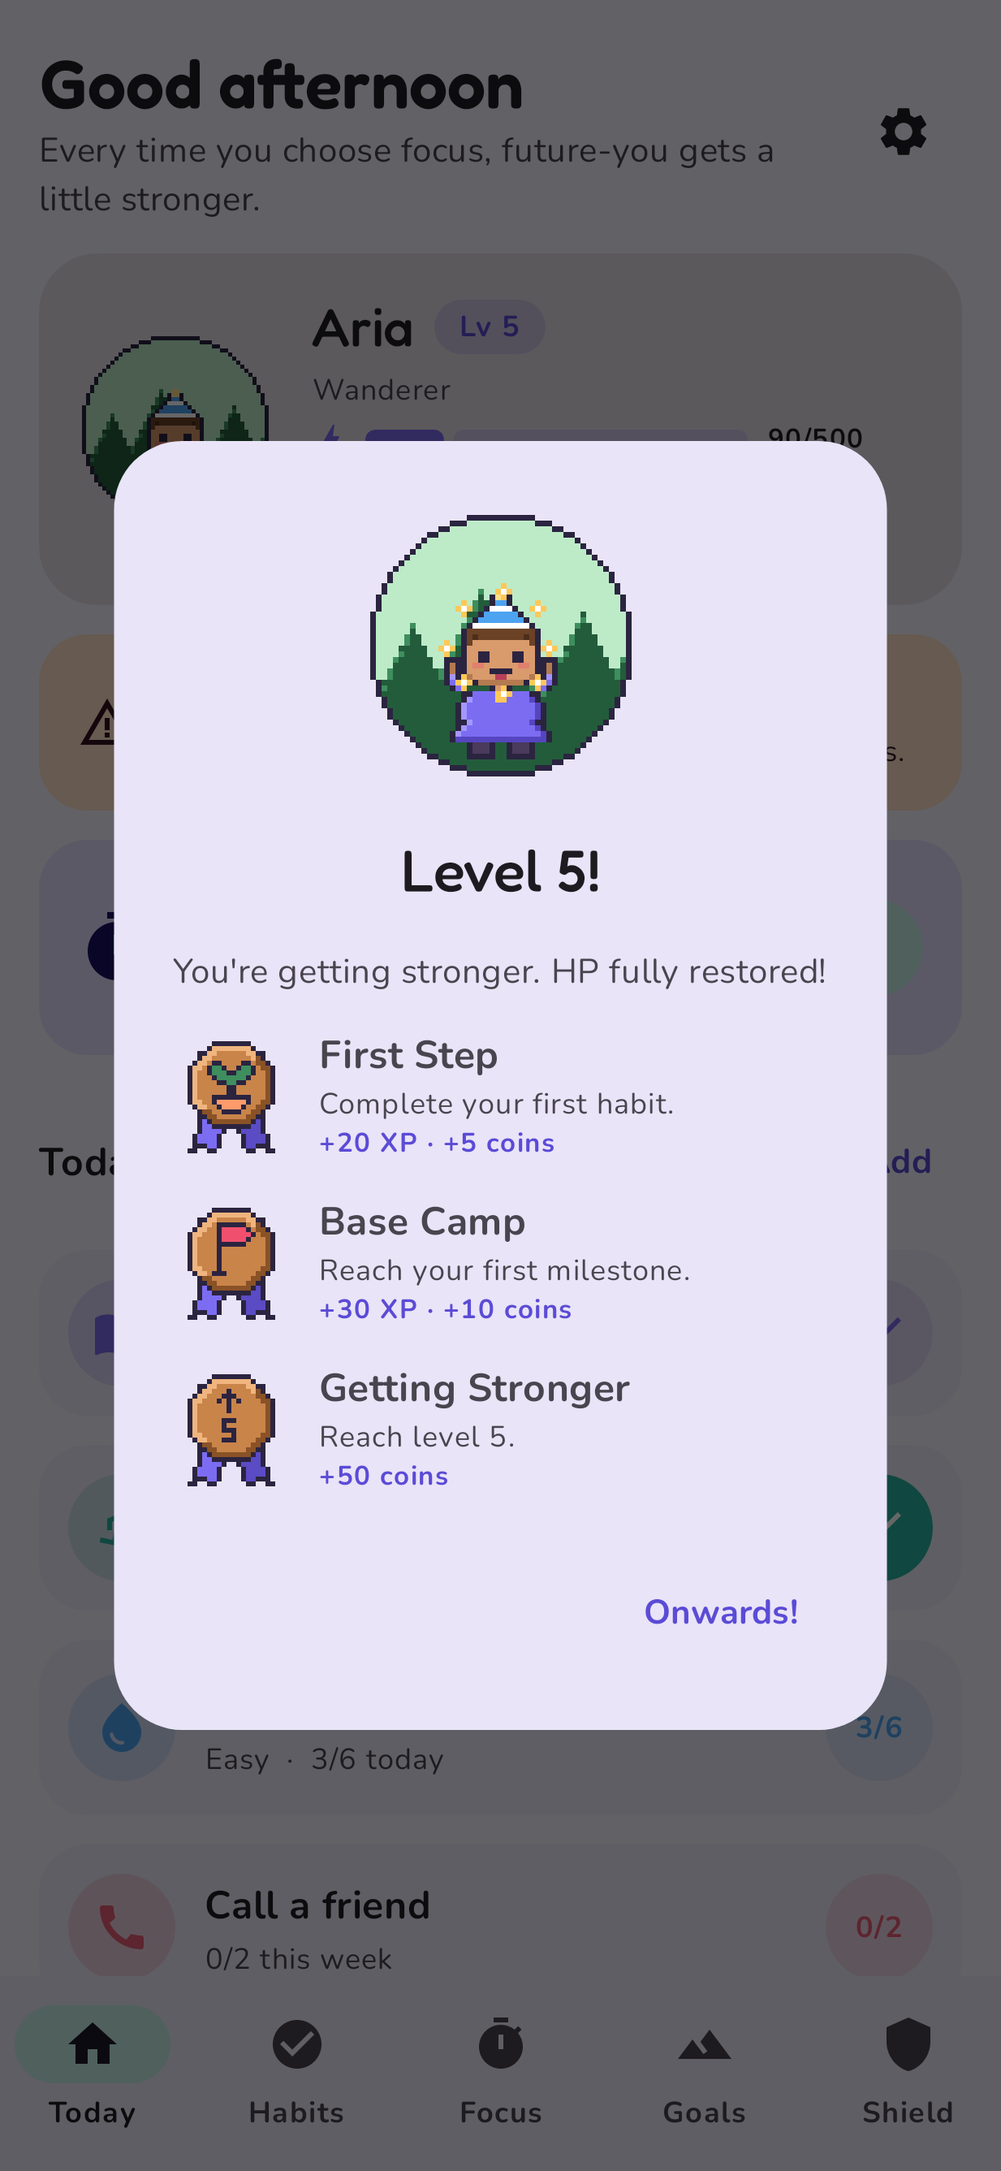
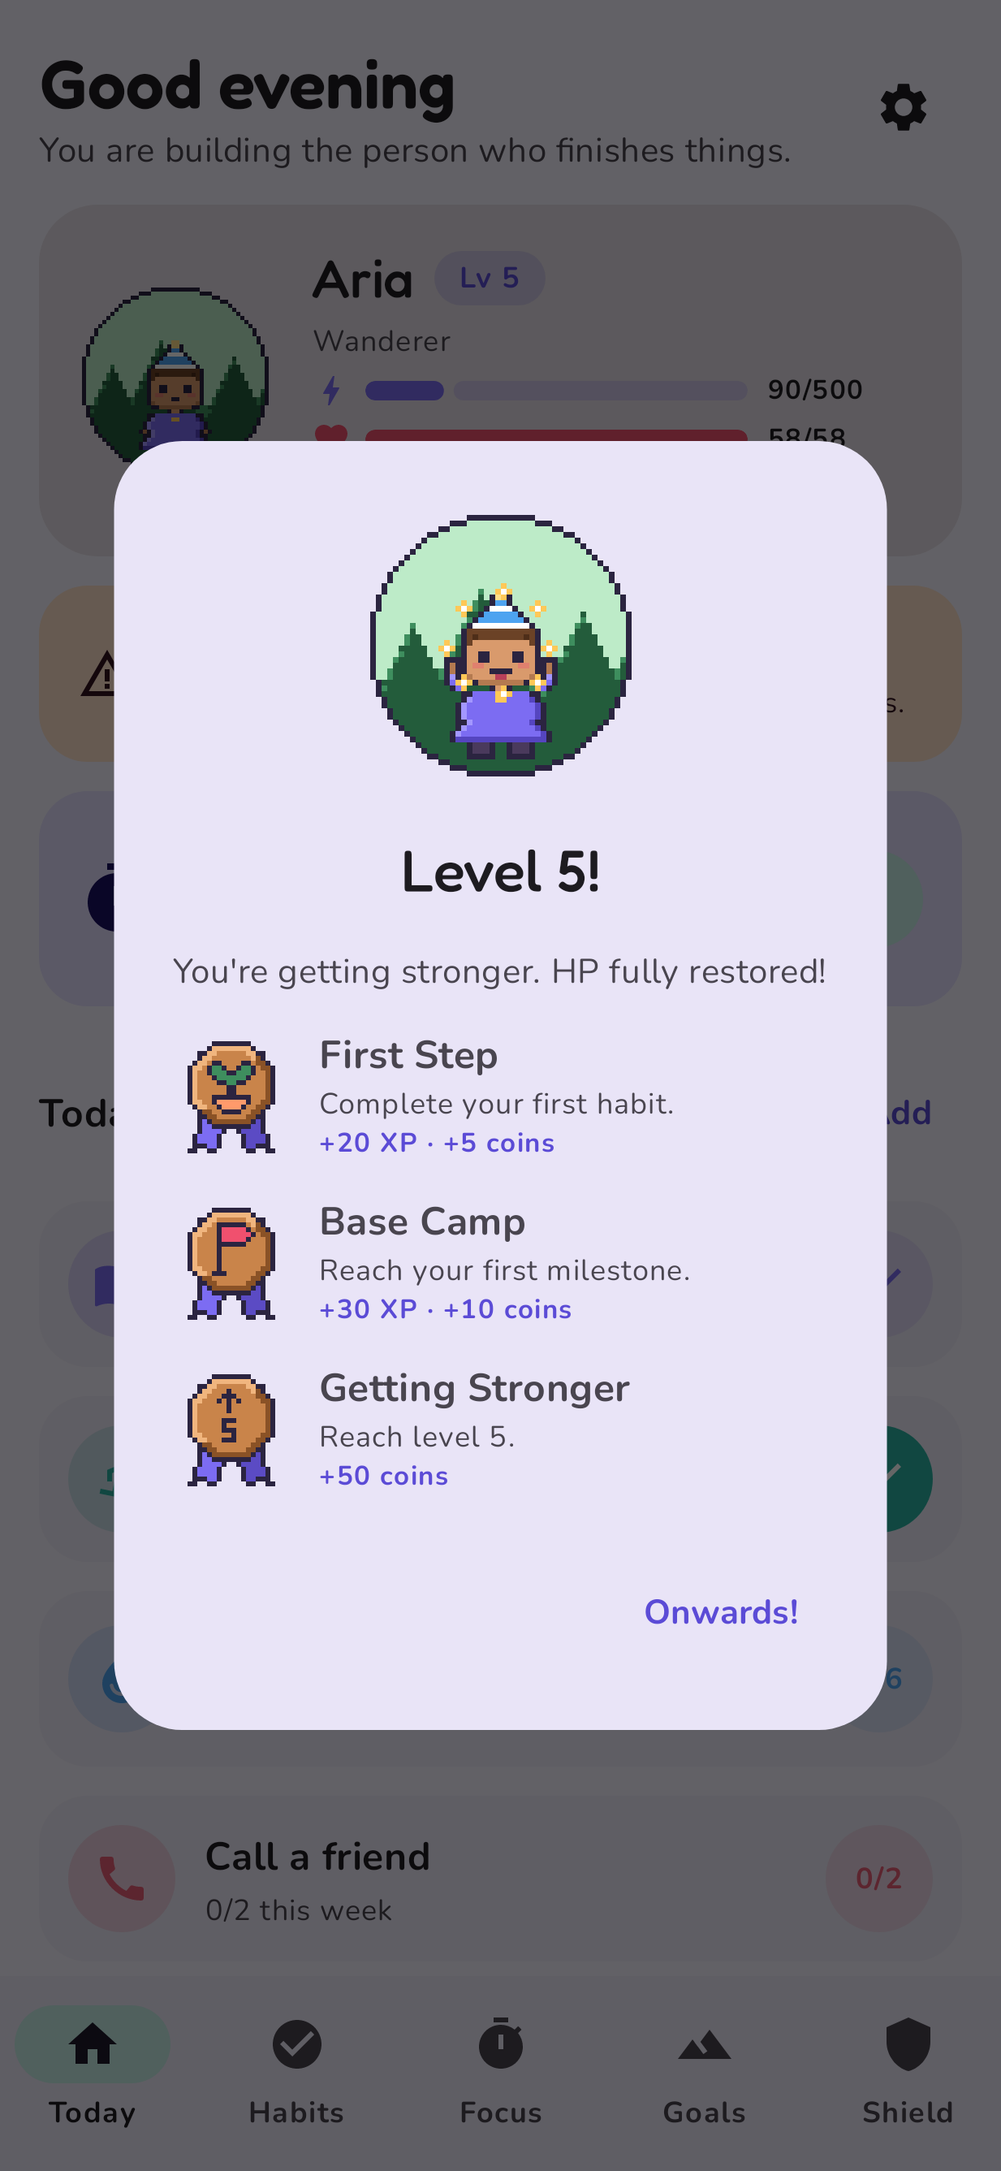
Pixel art phase 6: dark-theme polish
- Night variants of every goal ascent scene (dusky sky, stars, moon) and of the
  default hero backdrop, chosen automatically from the theme
- Translucent ground shadows (RRGGBBAA support in the generator) so empty-state
  scenes don't glow on dark cards
- DarkScreenshotTest renders every screen to docs/screenshots/dark/
- Test that every animation loop divides the shared 12 s clock (seamless loops)

Claude-Session: https://claude.ai/code/session_01Bt5NPUokkk5M5bc1iebKE9

diff --git a/app/src/main/java/org/openfocus/app/ui/pixel/SpriteCatalog.kt b/app/src/main/java/org/openfocus/app/ui/pixel/SpriteCatalog.kt
@@ -47,6 +47,9 @@ object SpriteCatalog {
     const val CELEBRATE = "celebrate"
     const val CLIMBING = "climbing"
     const val SUMMIT = "summit"
+    const val NIGHT = "night"
+    const val CLIMBING_NIGHT = "climbing_night"
+    const val SUMMIT_NIGHT = "summit_night"
     const val UNLIT = "unlit"
     const val LIT = "lit"
     const val RED = "red"
@@ -90,7 +93,7 @@ object SpriteCatalog {
 
     /** Round 48x48 backdrops. `null` key = the default backdrop when none is equipped. */
     val backdrops: Map<String?, SpriteSheet> = mapOf(
-        null to SpriteSheet(R.drawable.px_bg_default, 48, 48, still),
+        null to SpriteSheet(R.drawable.px_bg_default, 48, 48, mapOf(IDLE to SpriteAnim(0, 1), NIGHT to SpriteAnim(1, 1))),
         "bg_sunrise" to SpriteSheet(R.drawable.px_bg_sunrise, 48, 48, still),
         "bg_forest" to SpriteSheet(R.drawable.px_bg_forest, 48, 48, still),
         "bg_ocean" to SpriteSheet(R.drawable.px_bg_ocean, 48, 48, still),
@@ -104,7 +107,12 @@ object SpriteCatalog {
     val ascents: List<SpriteSheet> = listOf(
         R.drawable.px_ascent_0, R.drawable.px_ascent_1, R.drawable.px_ascent_2, R.drawable.px_ascent_3,
         R.drawable.px_ascent_4, R.drawable.px_ascent_5, R.drawable.px_ascent_6, R.drawable.px_ascent_7,
-    ).map { SpriteSheet(it, 160, 112, mapOf(CLIMBING to SpriteAnim(0, 1), SUMMIT to SpriteAnim(1, 1))) }
+    ).map {
+        SpriteSheet(
+            it, 160, 112,
+            mapOf(CLIMBING to SpriteAnim(0, 1), SUMMIT to SpriteAnim(1, 1), CLIMBING_NIGHT to SpriteAnim(2, 1), SUMMIT_NIGHT to SpriteAnim(3, 1)),
+        )
+    }
 
     fun ascent(colorIndex: Int): SpriteSheet = ascents[((colorIndex % ascents.size) + ascents.size) % ascents.size]
 
@@ -151,12 +159,15 @@ object SpriteCatalog {
         skin: SkinTone = SkinTone.LIGHT,
         withBackdrop: Boolean = false,
         backdropId: String? = null,
+        /** Dark theme: use a backdrop's NIGHT variant when it has one. */
+        night: Boolean = false,
     ): List<SpriteLayer>? {
         val cloak = cloaks[colorId ?: "color_violet"] ?: return null
         val body = bodies[skin] ?: return null
         val layers = mutableListOf<SpriteLayer>()
         val at = if (withBackdrop) {
-            layers += SpriteLayer(backdrops[backdropId] ?: return null, IDLE)
+            val bg = backdrops[backdropId] ?: return null
+            layers += SpriteLayer(bg, if (night && NIGHT in bg.anims) NIGHT else IDLE)
             HERO_IN_BACKDROP
         } else IntOffset.Zero
         layers += SpriteLayer(body, pose.anim, at)

diff --git a/app/src/main/java/org/openfocus/app/ui/components/Mountain.kt b/app/src/main/java/org/openfocus/app/ui/components/Mountain.kt
@@ -2,7 +2,9 @@ package org.openfocus.app.ui.components
 
 import androidx.compose.animation.core.animateFloatAsState
 import androidx.compose.animation.core.tween
+import androidx.compose.material3.MaterialTheme
 import androidx.compose.runtime.Composable
+import androidx.compose.ui.graphics.luminance
 import androidx.compose.runtime.getValue
 import androidx.compose.ui.Modifier
 import androidx.compose.ui.unit.IntOffset
@@ -25,13 +27,21 @@ fun AscentMountain(
     animate: Boolean = true,
     integerScale: Boolean = true,
 ) {
+    // Follow the app theme (not just the system) so the scene never glares on a dark screen.
+    val night = MaterialTheme.colorScheme.background.luminance() < 0.5f
     val n = milestones.size
     val done = milestones.count { it }
     val target = AscentTrail.climberFraction(done, n, completed)
     val f by animateFloatAsState(target, tween(if (animate) 900 else 0), label = "climb")
 
     val layers = buildList {
-        add(SpriteLayer(SpriteCatalog.ascent(colorIndex), if (completed) SpriteCatalog.SUMMIT else SpriteCatalog.CLIMBING))
+        val scene = when {
+            night && completed -> SpriteCatalog.SUMMIT_NIGHT
+            night -> SpriteCatalog.CLIMBING_NIGHT
+            completed -> SpriteCatalog.SUMMIT
+            else -> SpriteCatalog.CLIMBING
+        }
+        add(SpriteLayer(SpriteCatalog.ascent(colorIndex), scene))
         milestones.forEachIndexed { i, reached ->
             val p = AscentTrail.pointAt(AscentTrail.campFraction(i, n))
             add(SpriteLayer(SpriteCatalog.tent, if (reached) SpriteCatalog.LIT else SpriteCatalog.UNLIT, p - IntOffset(4, 6)))

diff --git a/app/src/test/java/org/openfocus/app/ui/pixel/SpriteCatalogTest.kt b/app/src/test/java/org/openfocus/app/ui/pixel/SpriteCatalogTest.kt
@@ -44,6 +44,25 @@ class SpriteCatalogTest {
         SpriteCatalog.cloaks.values.forEach { assertEquals(SpriteCatalog.heroBody.anims, it.anims) }
     }
 
+    @Test fun everyAscentHasDayAndNightScenes() {
+        val names = setOf(SpriteCatalog.CLIMBING, SpriteCatalog.SUMMIT, SpriteCatalog.CLIMBING_NIGHT, SpriteCatalog.SUMMIT_NIGHT)
+        SpriteCatalog.ascents.forEach { assertEquals(names, it.anims.keys) }
+        assertEquals(SpriteCatalog.ascent(1), SpriteCatalog.ascent(9)) // colour index wraps
+    }
+
+    /** A loop that doesn't divide the shared clock would visibly jump once every 12 s. */
+    @Test fun everyAnimationLoopsSeamlessly() {
+        val sheets = SpriteCatalog.bodies.values + SpriteCatalog.cloaks.values + SpriteCatalog.hats.values +
+            SpriteCatalog.backdrops.values + SpriteCatalog.ascents +
+            listOf(SpriteCatalog.tent, SpriteCatalog.climber, SpriteCatalog.flag, SpriteCatalog.coin,
+                SpriteCatalog.sparkle, SpriteCatalog.shield, SpriteCatalog.badges, SpriteCatalog.empty)
+        sheets.flatMap { it.anims.entries }.filter { it.value.frames > 1 }.forEach { (name, a) ->
+            val loopMs = a.frames * 1000.0 / a.fps
+            val loops = CLOCK_MS / loopMs
+            assertEquals("'$name' loop of ${loopMs}ms doesn't divide $CLOCK_MS ms", Math.round(loops).toDouble(), loops, 1e-6)
+        }
+    }
+
     @Test fun skinToneDefaultsToLight() {
         assertEquals(SkinTone.LIGHT, SkinTone.of(null))
         assertEquals(SkinTone.DEEP, SkinTone.of("deep"))

diff --git a/app/src/main/java/org/openfocus/app/ui/components/Avatar.kt b/app/src/main/java/org/openfocus/app/ui/components/Avatar.kt
@@ -2,7 +2,9 @@ package org.openfocus.app.ui.components
 
 import androidx.compose.foundation.Canvas
 import androidx.compose.foundation.layout.size
+import androidx.compose.material3.MaterialTheme
 import androidx.compose.runtime.Composable
+import androidx.compose.ui.graphics.luminance
 import androidx.compose.runtime.remember
 import androidx.compose.ui.Modifier
 import androidx.compose.ui.geometry.CornerRadius
@@ -37,8 +39,9 @@ fun HeroAvatar(
     skinTone: String? = null,
     animate: Boolean = true,
 ) {
-    val layers = remember(colorId, hatId, backdropId, pose, skinTone) {
-        SpriteCatalog.heroLayers(colorId, hatId, pose, SkinTone.of(skinTone), withBackdrop = true, backdropId = backdropId)
+    val night = MaterialTheme.colorScheme.background.luminance() < 0.5f
+    val layers = remember(colorId, hatId, backdropId, pose, skinTone, night) {
+        SpriteCatalog.heroLayers(colorId, hatId, pose, SkinTone.of(skinTone), withBackdrop = true, backdropId = backdropId, night = night)
     }
     if (layers != null) {
         PixelSprite(layers, modifier.size(size), animate = animate, contentDescription = "Your hero")

diff --git a/app/src/test/java/org/openfocus/app/screenshots/ScreenshotTest.kt b/app/src/test/java/org/openfocus/app/screenshots/ScreenshotTest.kt
@@ -36,7 +36,10 @@ import java.io.File
 @RunWith(RobolectricTestRunner::class)
 @GraphicsMode(GraphicsMode.Mode.NATIVE)
 @Config(sdk = [34], qualifiers = "w411dp-h891dp-xxhdpi")
-class ScreenshotTest {
+open class ScreenshotTest {
+    /** Subfolder of docs/screenshots for this variant ("" = light theme). */
+    protected open val variant = ""
+
     @get:Rule val compose = createAndroidComposeRule<ComponentActivity>()
 
     private var goalId = ""
@@ -77,7 +80,7 @@ class ScreenshotTest {
         Thread.sleep(300)
         compose.mainClock.advanceTimeBy(2_000) // let one-shot animations (e.g. the climber) settle
         compose.waitForIdle()
-        val dir = File(System.getProperty("screenshots.dir") ?: "build/screenshots").apply { mkdirs() }
+        val dir = File(System.getProperty("screenshots.dir") ?: "build/screenshots", variant).apply { mkdirs() }
         val view = compose.activity.window.decorView
         val bmp = Bitmap.createBitmap(view.width, view.height, Bitmap.Config.ARGB_8888)
         val canvas = Canvas(bmp)

diff --git a/app/src/main/java/org/openfocus/app/ui/pixel/PixelSprite.kt b/app/src/main/java/org/openfocus/app/ui/pixel/PixelSprite.kt
@@ -51,7 +51,7 @@ fun rememberReduceMotion(): Boolean {
  * One shared clock period. Every animation's loop length (frames / fps) should divide it evenly
  * so loops stay seamless; 12 s works for 1, 1.5, 2, 3, 4, 6 and 8 fps with typical frame counts.
  */
-private const val CLOCK_MS = 12_000
+internal const val CLOCK_MS = 12_000
 
 /**
  * Draws stacked pixel-art layers, crisp (nearest-neighbour) and at a WHOLE-NUMBER scale so every

diff --git a/app/src/test/java/org/openfocus/app/screenshots/DarkScreenshotTest.kt b/app/src/test/java/org/openfocus/app/screenshots/DarkScreenshotTest.kt
@@ -1,0 +1,9 @@
+package org.openfocus.app.screenshots
+
+import org.robolectric.annotation.Config
+
+/** Same screens as [ScreenshotTest], rendered in dark theme to docs/screenshots/dark/. */
+@Config(sdk = [34], qualifiers = "w411dp-h891dp-night-xxhdpi")
+class DarkScreenshotTest : ScreenshotTest() {
+    override val variant = "dark"
+}

diff --git a/art/tools/build_placeholders.py b/art/tools/build_placeholders.py
@@ -58,6 +58,9 @@ PALETTE = {
     "u": ("F2D8A7", "sand"),
     "z": ("1E1B4B", "night"),
     "Z": ("2E2A6B", "night light"),
+    # Translucent (RRGGBBAA): drawn over either theme. Not exported to the palette files.
+    "_": ("2B244038", "shadow (translucent outline)"),
+    "=": ("3E8E5E70", "grass (translucent)"),
 }
 
 # Skin ramps (light, shadow, blush). Template chars: s, S, p.
@@ -192,6 +195,8 @@ def backdrop(kind, frame=0):
     def fill(x, y):
         if kind == "default":
             return "L" if y < 30 else "l"
+        if kind == "default_night":
+            return "Z" if y < 30 else "z"
         if kind == "sunrise":
             if y >= 38:
                 return "k"
@@ -252,11 +257,15 @@ def mix(hexv, other, t):
     return "".join(f"{round(x + (y - x) * t):02X}" for x, y in zip(a, b))
 
 
+NIGHT = "14121F"  # = dark theme background
+
+
 def scene_colors(base):
-    """Per-scene ramp: 1/2 sky, 3 back range, 4 lit face, 5 shaded face."""
+    """Per-scene ramp: 1/2 sky, 3 back range, 4 lit face, 5 shaded face; 6/7/8 = night sky/range."""
     return {
         "1": mix(base, "FFFFFF", 0.86), "2": mix(base, "FFFFFF", 0.74),
         "3": mix(base, "FFFFFF", 0.45), "4": base, "5": mix(base, "000000", 0.32),
+        "6": mix(base, NIGHT, 0.82), "7": mix(base, NIGHT, 0.7), "8": mix(base, NIGHT, 0.5),
     }
 
 
@@ -272,13 +281,18 @@ def line_points(a, b):
     return [(round(x0 + (x1 - x0) * i / n), round(y0 + (y1 - y0) * i / n)) for i in range(n + 1)]
 
 
-def ascent_scene(summit):
+def ascent_scene(summit, night=False):
+    """night=True is the dark-theme variant: dusky sky, stars, and a moon instead of the sun."""
     import math
     W, H = SCENE_W, SCENE_H
     g = [["." for _ in range(W)] for _ in range(H)]
     for y in range(H):
         for x in range(W):
-            if summit:
+            if night:
+                c = ("z" if summit else "6") if y < 44 else ("Z" if summit else "7")
+                if y in (42, 43) and (x + y) % 2 == 0:
+                    c = "Z" if summit else "7"
+            elif summit:
                 c = "A" if y < 40 else "K"
                 if y in (38, 39) and (x + y) % 2 == 0:
                     c = "K"
@@ -287,7 +301,16 @@ def ascent_scene(summit):
                 if y in (42, 43) and (x + y) % 2 == 0:
                     c = "2"
             g[y][x] = c
-    if summit:
+    if night:
+        for i, (sx, sy) in enumerate(((12, 8), (40, 20), (62, 6), (120, 12), (148, 30), (24, 34), (136, 4), (100, 24))):
+            g[sy][sx] = "w" if i % 3 else "y"
+        for y in range(H):
+            for x in range(W):
+                in_moon = (x - 132) ** 2 + (y - 22) ** 2 <= 49
+                bite = (x - 135) ** 2 + (y - 20) ** 2 <= 42
+                if in_moon and not bite:
+                    g[y][x] = "g" if summit else "y"
+    elif summit:
         for y in range(H):
             for x in range(W):
                 if (x - 132) ** 2 + (y - 30) ** 2 <= 80:
@@ -302,7 +325,7 @@ def ascent_scene(summit):
     for x in range(W):
         top = int(62 + 9 * math.sin(x / 13) + 5 * math.sin(x / 5.3 + 1))
         for y in range(top, H):
-            g[y][x] = "o" if y == top else "3"
+            g[y][x] = "o" if y == top else ("8" if night else "3")
     # Main peak with outline, lit left face, shaded right face, snow cap
     inside = [[False] * W for _ in range(H)]
     for y in range(PEAK[1], H):
@@ -587,7 +610,7 @@ EMPTY_SCENES = ["quests", "habits", "goals"]  # MUST match SpriteCatalog.empty
 
 def empty_quests():
     g = blank(64, 48)
-    stamp(g, ellipse_mask(32, 43, 26, 3.5, 64, 48), "l", outline=None)
+    stamp(g, ellipse_mask(32, 43, 26, 3.5, 64, 48), "_", outline=None)
     stamp(g, rect_mask(12, 12, 50, 38), "u")
     for cx in (12, 50):
         stamp(g, ellipse_mask(cx + .5, 25, 3.5, 14, 64, 48), "A", shade=lambda x, y: "K" if y > 30 else None)
@@ -603,7 +626,7 @@ def empty_quests():
 
 def empty_habits():
     g = blank(64, 48)
-    stamp(g, ellipse_mask(32, 43, 28, 3.5, 64, 48), "l", outline=None)
+    stamp(g, ellipse_mask(32, 43, 28, 3.5, 64, 48), "_", outline=None)
     for i, (cx, stem) in enumerate(((14, 4), (32, 10), (50, 16))):
         top = 30 - stem
         for y in range(top, 31):
@@ -624,12 +647,12 @@ def empty_habits():
 
 def empty_goals():
     g = blank(64, 48)
-    stamp(g, ellipse_mask(32, 43, 30, 3.5, 64, 48), "f", outline=None)
+    stamp(g, ellipse_mask(32, 43, 30, 3.5, 64, 48), "=", outline=None)
     mount = poly_mask([(30, 41), (47, 10), (64, 41)], 64, 48)
     stamp(g, mount, "v", shade=lambda x, y: "V" if x > 47 + (y - 10) * 0.15 else None)
     stamp(g, poly_mask([(42, 19), (47, 10), (52, 19), (49, 17), (47, 20), (45, 17)], 64, 48), "w", outline=None)
     for i, (x, y) in enumerate(line_points((8, 46), (40, 34)) + line_points((40, 34), (44, 26))):
-        if i % 3 < 2 and g[y][x] in ".fv":
+        if i % 3 < 2 and g[y][x] in ".=v":
             g[y][x] = "u"
     stamp(g, rect_mask(15, 14, 19, 44), "h")
     stamp(g, poly_mask([(5, 14), (26, 14), (31, 18), (26, 22), (5, 22)], 64, 48), "G", shade=lambda x, y: "g" if y < 17 else None)
@@ -709,7 +732,7 @@ def write_png(path, pixels, colors):
                 raw += b"\x00\x00\x00\x00"
             else:
                 hexv = ch[1:] if ch.startswith("#") else colors[ch]
-                raw += bytes.fromhex(hexv) + b"\xff"
+                raw += bytes.fromhex(hexv) + (b"" if len(hexv) == 8 else b"\xff")  # RRGGBB or RRGGBBAA
 
     def chunk(tag, data):
         return struct.pack(">I", len(data)) + tag + data + struct.pack(">I", zlib.crc32(tag + data) & 0xFFFFFFFF)
@@ -766,7 +789,10 @@ def main():
                   sheet([[split(f, is_cloak) for f in row] for row in poses], 32, 32), cc)
 
     for kind, frames in BACKDROPS.items():
-        write_png(os.path.join(OUT, f"px_bg_{kind}.png"), sheet([[backdrop(kind, f) for f in range(frames)]], 48, 48), colors)
+        rows = [[backdrop(kind, f) for f in range(frames)]]
+        if kind == "default":  # row 1 = dark-theme version of the default backdrop
+            rows.append([backdrop("default_night")])
+        write_png(os.path.join(OUT, f"px_bg_{kind}.png"), sheet(rows, 48, 48), colors)
 
     for item, rows in HATS.items():
         write_png(os.path.join(OUT, f"px_{item}.png"), sheet([[grid(rows, 32, 32)]], 32, 32), colors)
@@ -806,9 +832,10 @@ def main():
     write_png(os.path.join(OUT, "px_badges.png"), out, {})
     write_png(os.path.join(OUT, "px_sparkle.png"), sheet([sparkle_frames()], 48, 48), colors)
 
-    climbing, summit = ascent_scene(False), ascent_scene(True)
+    # Rows: 0 climbing, 1 summit, 2 climbing (night / dark theme), 3 summit (night).
+    scenes = [[ascent_scene(False)], [ascent_scene(True)], [ascent_scene(False, True)], [ascent_scene(True, True)]]
     for i, base in enumerate(GOAL_COLORS):
-        write_png(os.path.join(OUT, f"px_ascent_{i}.png"), sheet([[climbing], [summit]], SCENE_W, SCENE_H),
+        write_png(os.path.join(OUT, f"px_ascent_{i}.png"), sheet(scenes, SCENE_W, SCENE_H),
                   dict(colors, **scene_colors(base)))
     write_png(os.path.join(OUT, "px_tent.png"),
               sheet([[grid(f, 8, 8) for f in TENT["unlit"]], [grid(f, 8, 8) for f in TENT["lit"]]], 8, 8), colors)
@@ -818,7 +845,7 @@ def main():
               sheet([[[list(r) for r in f] for f in FLAG], [[list(r) for r in f] for f in gold]], 8, 8), colors)
 
     # Palette exports (base palette + cloak ramps).
-    entries = [(v[0], v[1]) for v in PALETTE.values()] + [(LAUNCHER_BG, "launcher background")]
+    entries = [(v[0], v[1]) for v in PALETTE.values() if len(v[0]) == 6] + [(LAUNCHER_BG, "launcher background")]
     for i, base in enumerate(GOAL_COLORS):
         for key, hexv in scene_colors(base).items():
             entries.append((hexv, f"goal {i} ramp {key}"))

diff --git a/art/README.md b/art/README.md
@@ -70,6 +70,12 @@ To add an achievement: add it to `Achievements.all`, add a matching `(id, tier)`
 ### Launcher icon
 The icon is drawn on a 54×54 canvas and exported at ×2/×3/×4/×6/×8 to `mipmap-*/ic_launcher_fg.png`, with a white `ic_launcher_mono.png` for Android 13+ themed icons. Keep content inside the central 36×36 (the adaptive-icon safe zone); the background is `@color/launcher_background`. `art/export/ic_launcher_store.png` (486 px, 54×9) is ready for store listings; pad it to 512 if a store requires that size. The notification icon is still the vector `drawable/ic_launcher_foreground.xml`.
 
+### Light and dark themes
+Sprites are drawn once and must read on both the light (`#F7F4FF`) and dark (`#14121F`) backgrounds:
+- Big scenes that fill a card get a **night row**: `climbing_night` / `summit_night` for each ascent, and `night` for the default backdrop. The app picks the night row when the theme background is dark.
+- Ground shadows use translucent palette entries (`_` and `=` in the generator, written as `RRGGBBAA`) so they darken whatever is underneath instead of glowing.
+- Check `docs/screenshots/dark/` (from `DarkScreenshotTest`) whenever you add art.
+
 ### Rendering
 `PixelSprite` draws with nearest-neighbour filtering and rounds the scale down to a whole number, so every source pixel becomes an equal square block of screen pixels. Animations stop when the user has turned off system animations.
 
@@ -94,4 +100,5 @@ Every file must be listed in `CREDITS.md`.
 - [x] Phase 3: goal mountain scene: one 160×112 sheet per goal colour (climbing / summit rows), tents (unlit / lit flicker), climber, flag (red / gold)
 - [x] Phase 4: 20 achievement medals (bronze / silver / gold), locked silhouettes, level-up sparkle burst, coin in reward snackbars
 - [x] Phase 5: breathing block-screen shield, empty-state scenes (quests / habits / goals), onboarding art, pixel launcher icon (+ monochrome + 486px store export)
-- [ ] Phase 6: polish (timing, dark-mode review on devices)
+- [x] Phase 6: dark-theme pass: night versions of every goal scene and of the default backdrop, translucent ground shadows, dark screenshots in `docs/screenshots/dark/`, a test that every loop divides the 12 s clock
+- [ ] Next: replace the placeholders with hand-drawn art and review on real devices (contributors welcome!)

diff --git a/README.md b/README.md
@@ -9,6 +9,8 @@ Everything stays on your device: there are no accounts, no analytics and no netw
 |---|---|---|---|---|---|
 | ![](docs/screenshots/today.png) | ![](docs/screenshots/habits.png) | ![](docs/screenshots/focus.png) | ![](docs/screenshots/goal_detail.png) | ![](docs/screenshots/shield.png) | ![](docs/screenshots/hero.png) |
 
+Dark theme: [`docs/screenshots/dark/`](docs/screenshots/dark)
+
 | Block screen | Level up | First day |
 |---|---|---|
 | ![](docs/screenshots/block.png) | ![](docs/screenshots/celebration.png) | ![](docs/screenshots/empty_today.png) |
